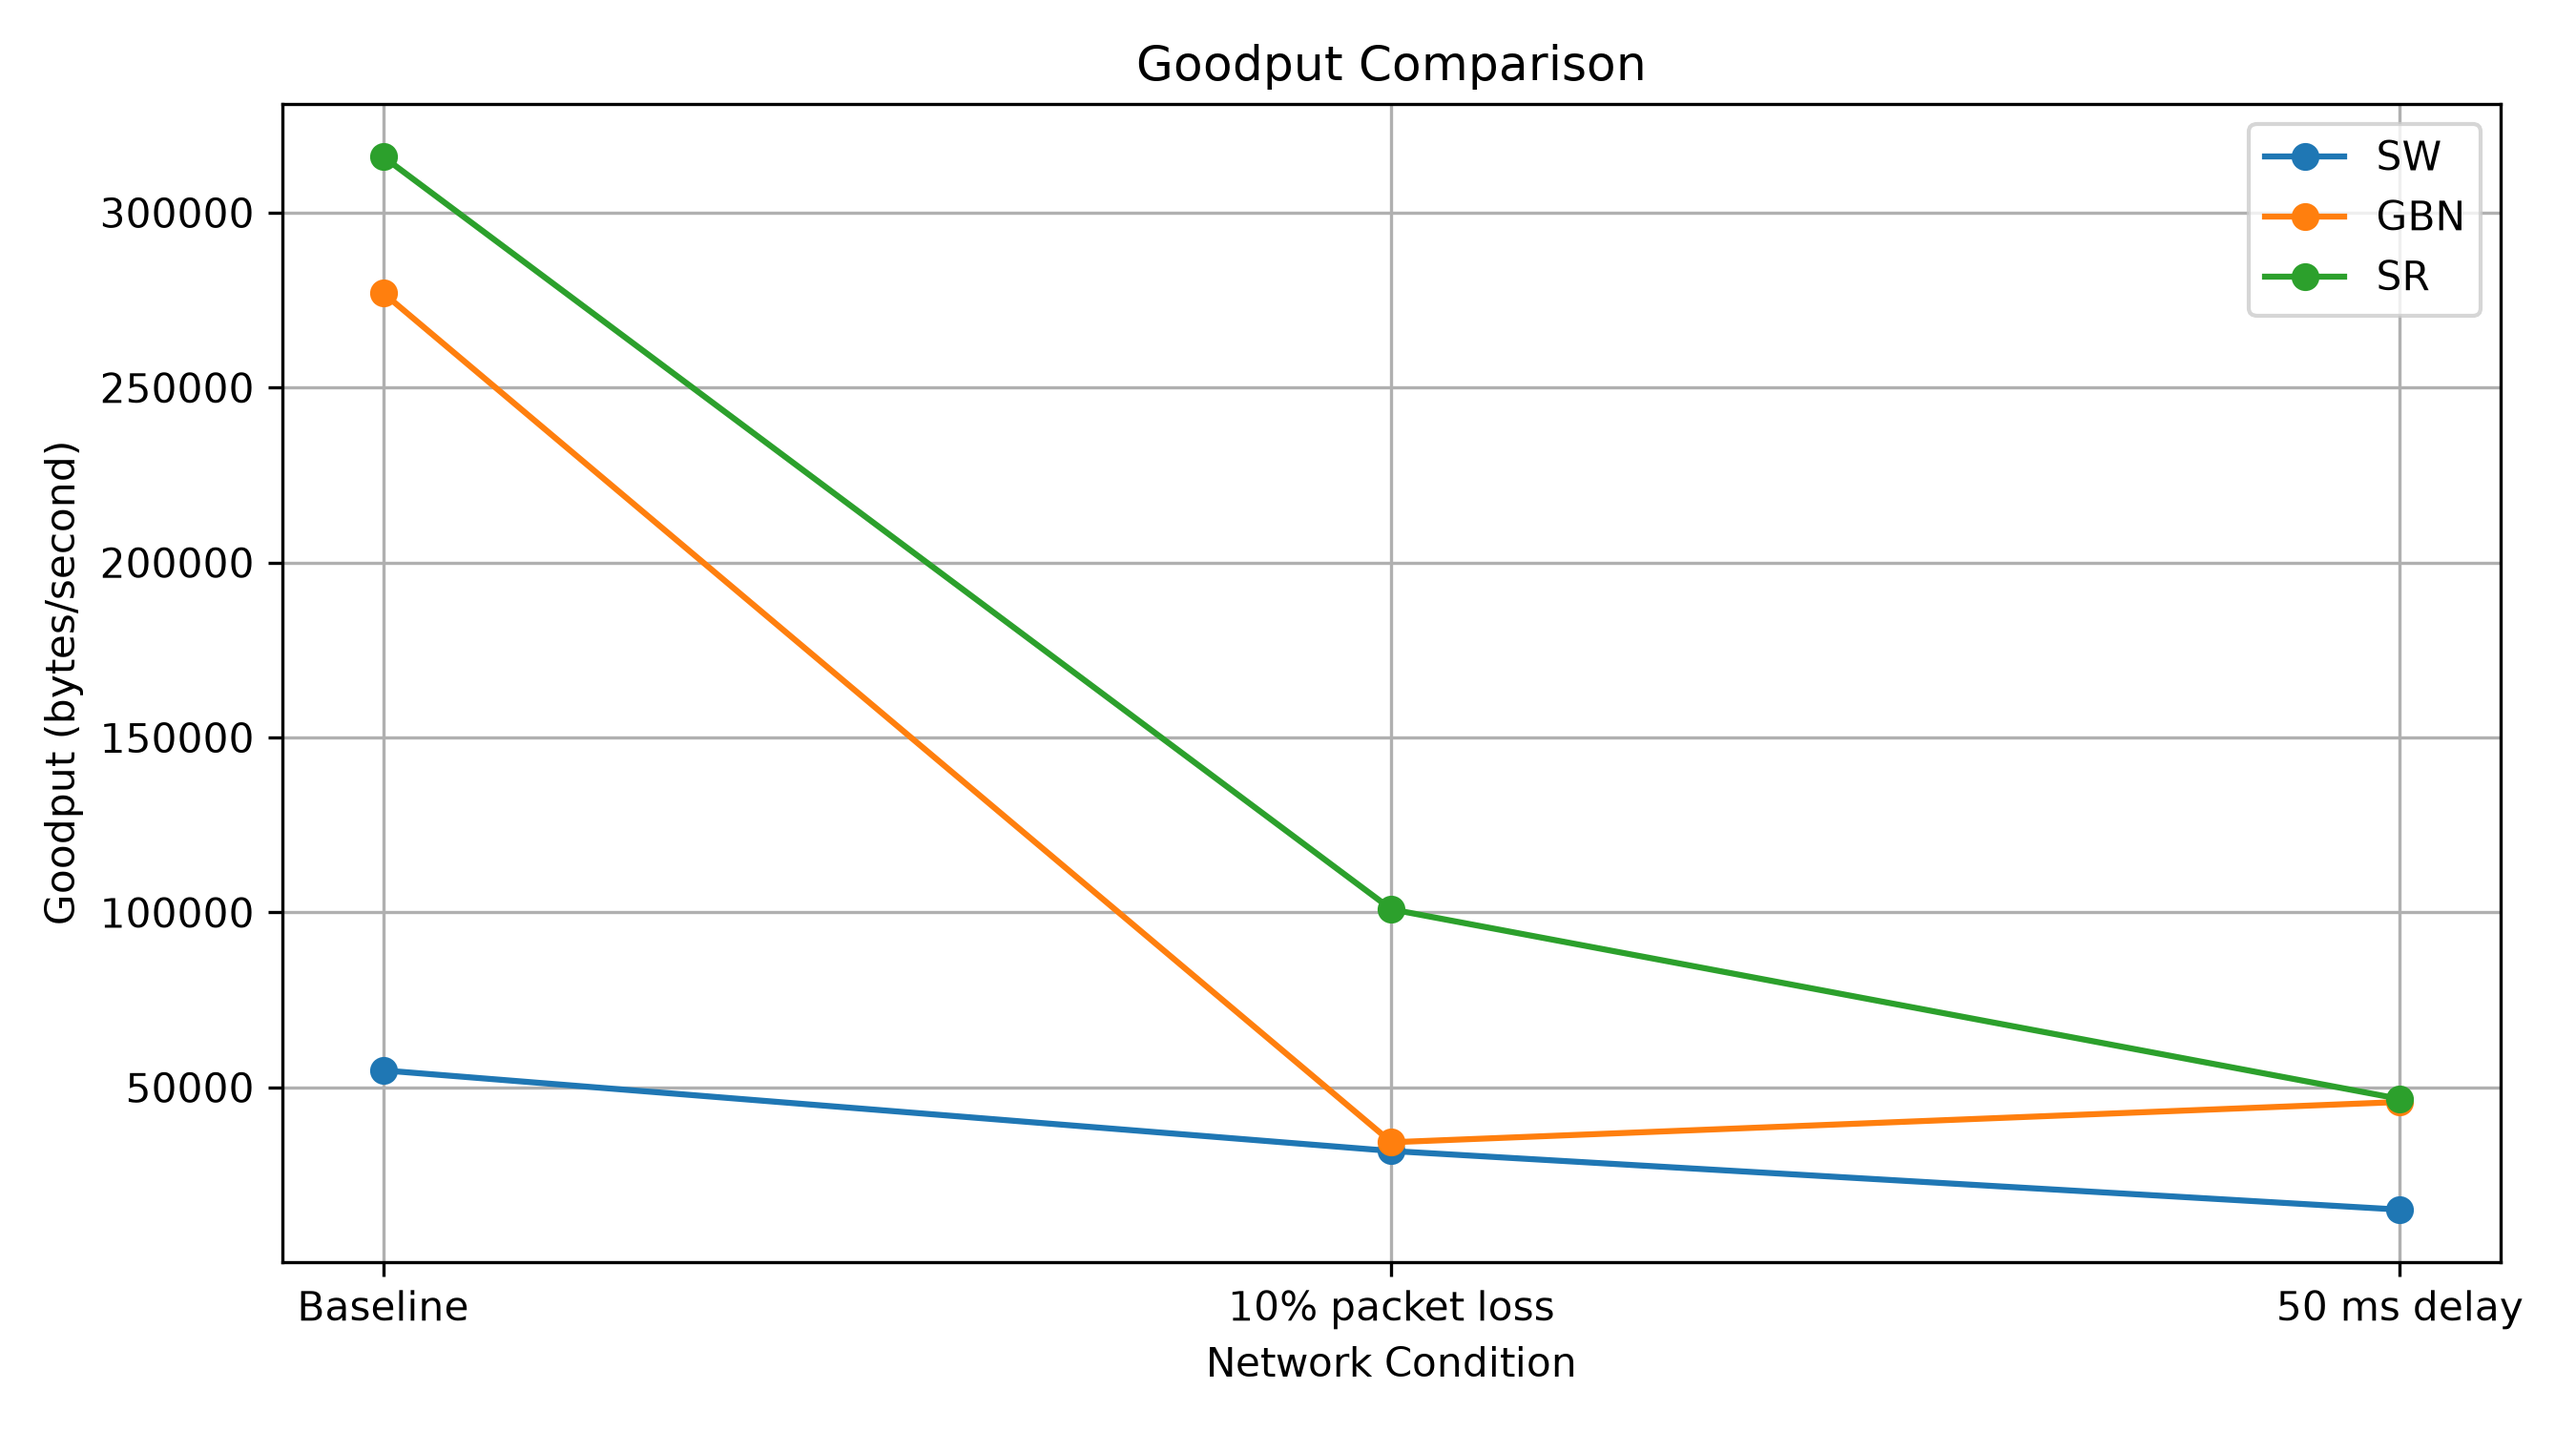
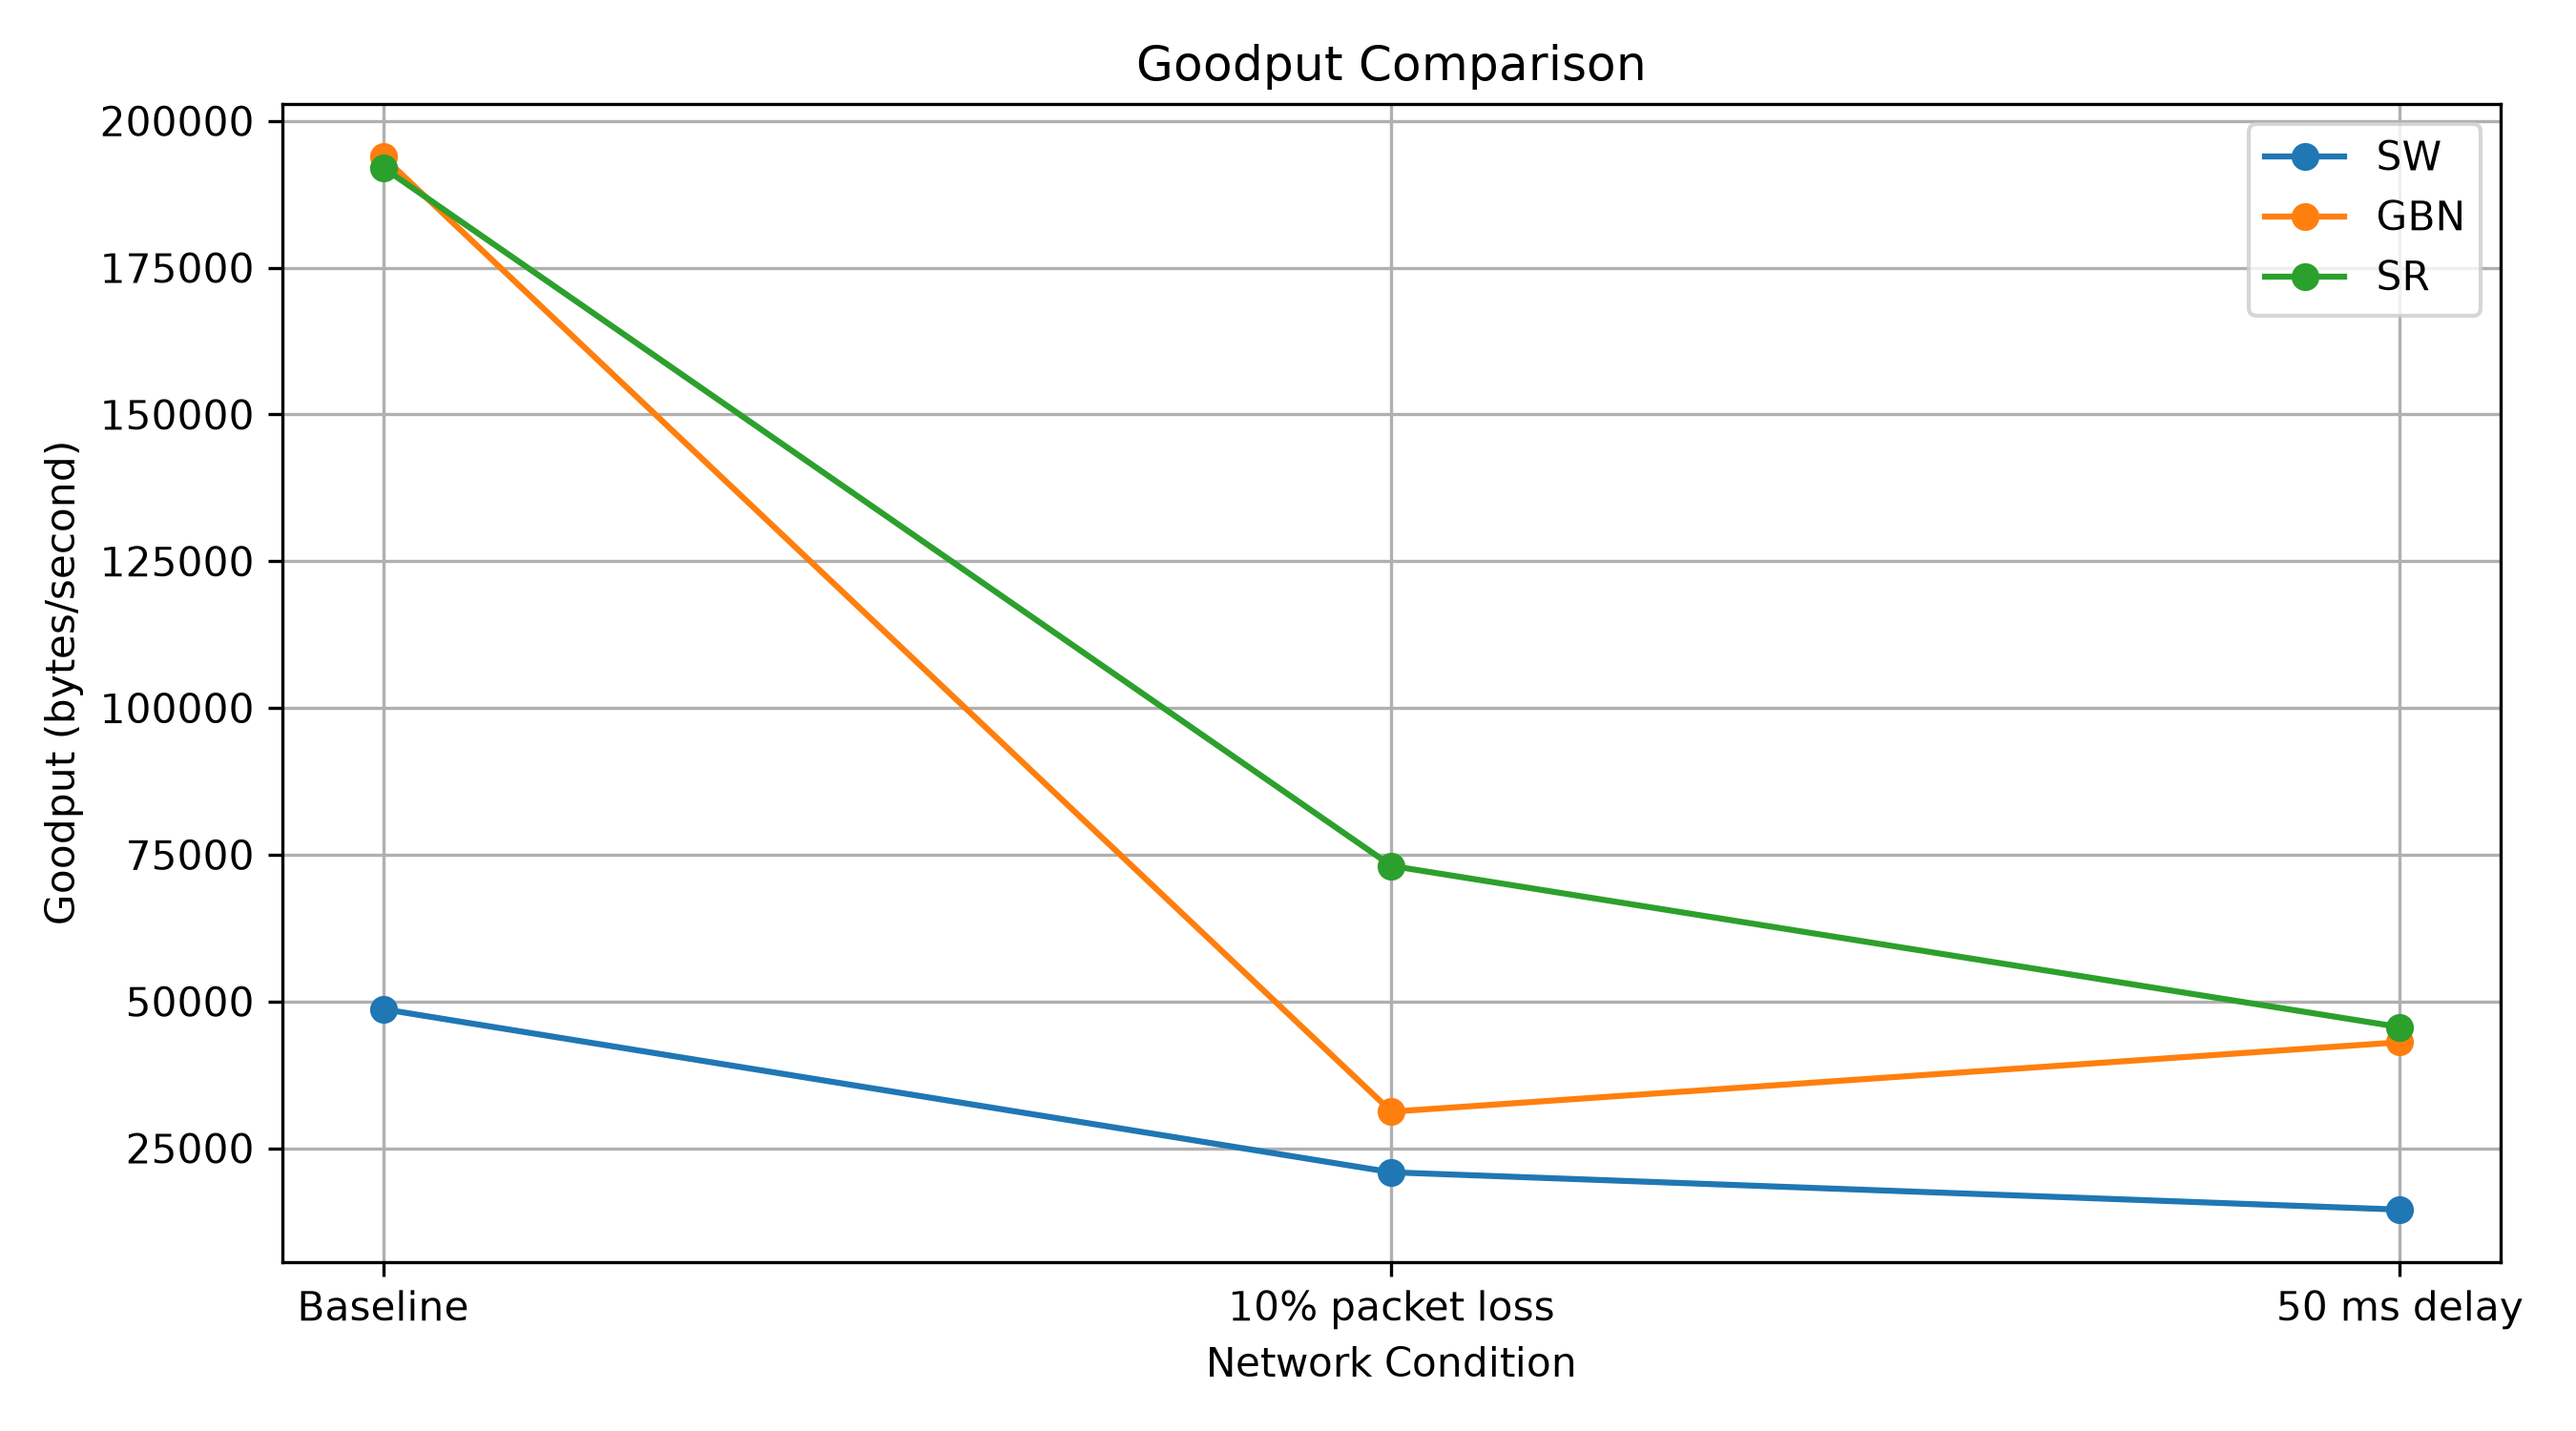
Update README with final experiment results

diff --git a/README.md b/README.md
@@ -146,29 +146,29 @@ py sr_sender.py sample.txt
 
 ## 8. Experimental Evaluation
 
-The three protocols were evaluated under three conditions:
+The three protocols were evaluated under three network conditions:
 
 1. Baseline
 2. 10% packet loss
 3. 50 ms network delay
 
-All nine experiment runs completed successfully.
+All nine experiment runs completed successfully in the latest test run.
 
 ### Experimental Results
 
 | Protocol | Condition | Transfer Time (s) | Retransmissions | Goodput (bytes/s) |
 |---|---|---:|---:|---:|
-| SW | Baseline | 0.684 | 0 | 54,862.29 |
-| GBN | Baseline | 0.135 | 0 | 277,074.89 |
-| SR | Baseline | 0.119 | 0 | 316,013.33 |
-| SW | 10% packet loss | 1.180 | 1 | 31,820.89 |
-| GBN | 10% packet loss | 1.094 | 8 | 34,314.02 |
-| SR | 10% packet loss | 0.372 | 2 | 100,875.38 |
-| SW | 50 ms delay | 2.492 | 0 | 15,062.57 |
-| GBN | 50 ms delay | 0.819 | 0 | 45,833.03 |
-| SR | 50 ms delay | 0.804 | 0 | 46,700.05 |
+| SW | Baseline | 0.771 | 0 | 48,680.58 |
+| GBN | Baseline | 0.194 | 0 | 193,913.54 |
+| SR | Baseline | 0.195 | 0 | 192,051.28 |
+| SW | 10% packet loss | 1.797 | 2 | 20,889.40 |
+| GBN | 10% packet loss | 1.203 | 8 | 31,214.01 |
+| SR | 10% packet loss | 0.514 | 2 | 73,080.61 |
+| SW | 50 ms delay | 2.584 | 0 | 14,526.29 |
+| GBN | 50 ms delay | 0.872 | 0 | 43,044.17 |
+| SR | 50 ms delay | 0.823 | 0 | 45,626.83 |
 
-**Measurement note:** Transfer time is measured around the sender subprocess execution. Receiver and channel-emulator startup time is excluded. Goodput is calculated as the input file size in bytes divided by this measured sender execution time. These are application-level measurements, not a measurement of raw link capacity.
+**Measurement methodology:** Transfer time is measured around the sender subprocess execution. Receiver and channel-emulator startup time is excluded. Goodput is calculated as the input file size in bytes divided by the measured sender execution time. These are application-level measurements, not raw network link capacity.
 
 ### Performance Graphs
 
@@ -186,12 +186,13 @@ All nine experiment runs completed successfully.
 
 ### Observations
 
-- Under baseline conditions, SR recorded the lowest transfer time and highest goodput among the three protocols in this experiment.
-- Under 10% packet loss, SR recorded the lowest transfer time and highest goodput. GBN recorded more retransmissions than SW and SR in this run.
-- Under 50 ms delay, SR was marginally faster than GBN and recorded slightly higher goodput.
-- SW was the slowest protocol under the tested delay condition.
+- Under baseline conditions, GBN recorded the lowest transfer time, closely followed by SR.
+- Under 10% packet loss, SR achieved the lowest transfer time and highest goodput.
+- GBN recorded the highest number of retransmissions under the tested packet-loss condition.
+- Under 50 ms delay, SR performed slightly better than GBN in both transfer time and goodput.
+- SW recorded the highest transfer time under all three tested conditions.
 
-These observations apply to the tested file, configuration and runs; they should not be treated as universal performance guarantees.
+These observations are based on the latest experiment run and the tested file and configuration. Results may vary across repeated runs.
 
 ## 9. File Integrity Verification
 
@@ -203,7 +204,7 @@ The following hash was obtained for each file:
[1 lines of base64/hex data omitted]
 ```
 
-The matching hashes confirm that the received files were identical to the original file in the verified run.
+The matching hashes confirm that the received files were identical to the original file in the latest verified run.
 
 ## 10. Testing
 
